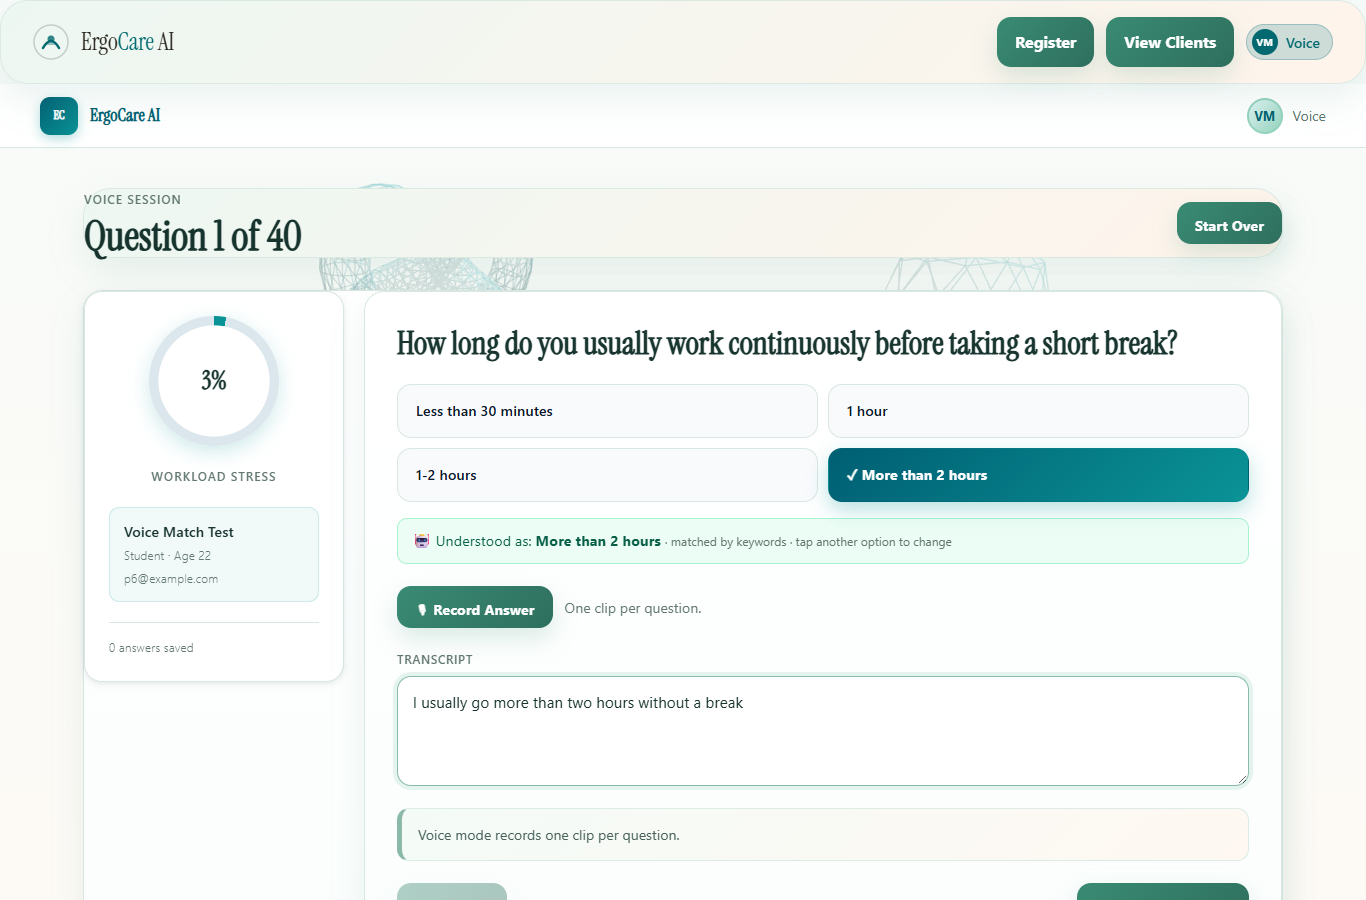
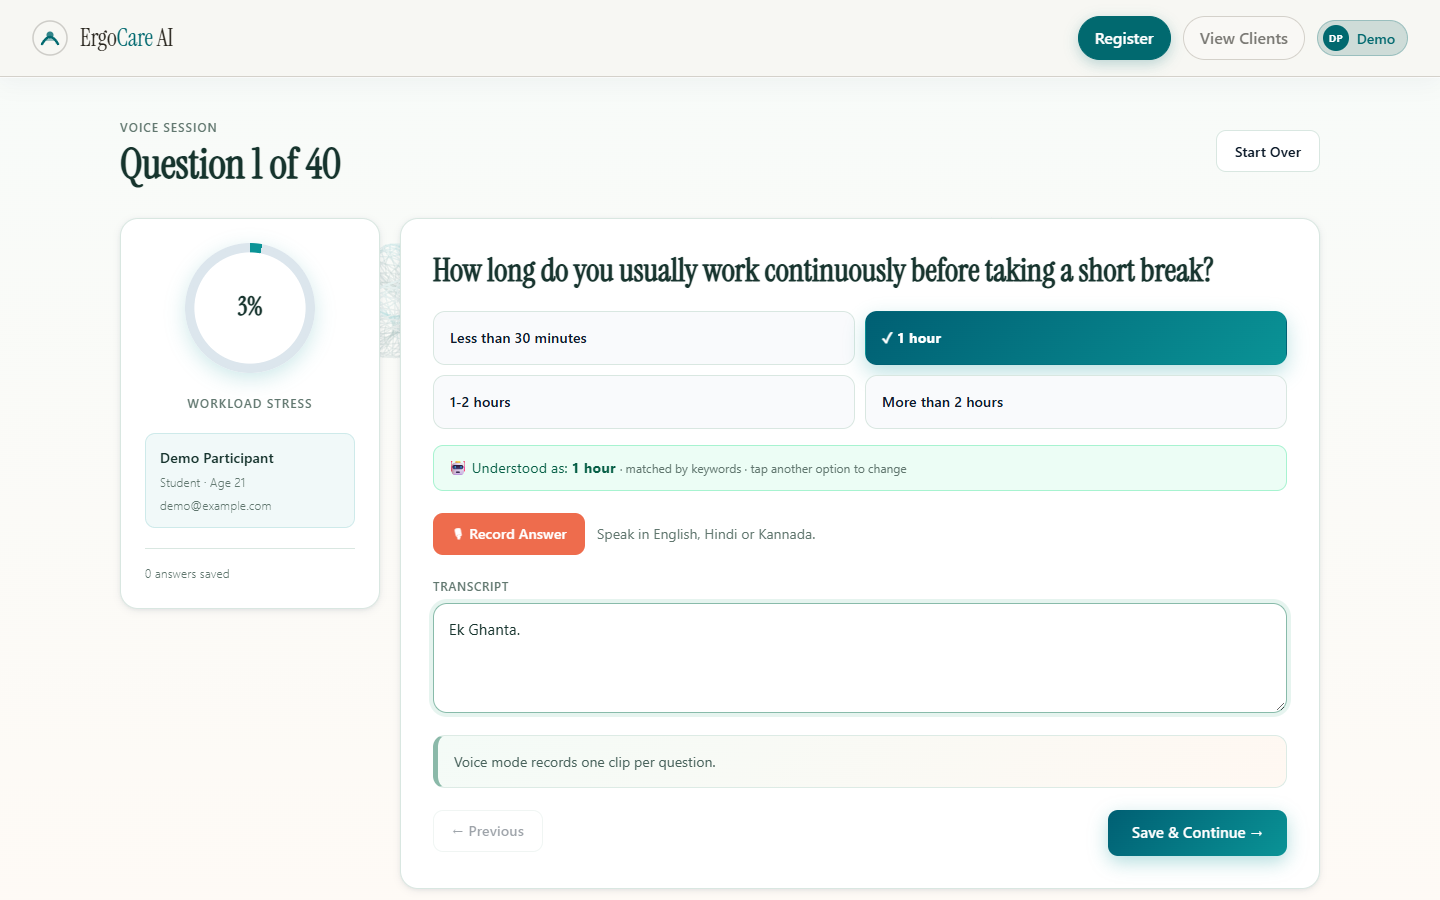
Update README and screenshots; standard MIT license text; fix clone instructions

diff --git a/README.md b/README.md
@@ -2,9 +2,11 @@
 
 **Posture and stress screening that combines what people *say* with what their *body shows*.**
 
-ErgoCare pairs a 40-question ergonomic assessment (typed or spoken, in **English, हिन्दी or ಕನ್ನಡ**) with a low-cost ESP32 wearable that measures **heart rate, skin response (a stress signal) and posture** while the person answers. Both are combined into one report — the **ErgoCare Index** — that also flags where answers and body disagree, e.g. *"You reported low stress, but your body showed stress responses for 48% of the session."*
+ErgoCare pairs a 40-question ergonomic assessment (typed or spoken, in **English, हिन्दी or ಕನ್ನಡ**) with a low-cost ESP32 wearable that measures **heart rate, skin response (a stress signal) and posture** while the person answers. Both are combined into one report — the **ErgoCare Index** — that also flags where answers and body disagree, e.g. *"You reported low stress, but your body showed stress responses for 59% of the session."*
 
 > ErgoCare is a **screening tool, not a medical diagnosis.**
+
+Built for **Hack for Social Cause · VBYLD 2027** — theme *Healthcare, Wellbeing & Service Delivery*.
 
 **Team Upright** — Harshdeep Sharma (Team Lead · Hardware & Firmware) · Alex Jilson (Backend & AI) · Shrayana KS (Frontend, UX & Languages)
 
@@ -13,14 +15,18 @@ ErgoCare pairs a 40-question ergonomic assessment (typed or spoken, in **English
 | [Setup](#setup) · [Environment variables](#environment-variables) | Install and run on a laptop, every setting explained |
 | [Technical Design Document](docs/TECHNICAL_DESIGN.md) | Architecture diagrams, API, data model, scoring rules, AI matcher, security |
 | [Test cases and results](docs/TEST_CASES.md) | 9 automated suites + end-to-end replay, incl. **500-answer** and **500-participant** tests |
-| [Sample data](sample_data/README.md) | Simulated wearable session, answer sets, 100 voice-answer test cases |
+| [Sample data](sample_data/README.md) | Simulated wearable session, answer sets, 100 + 500 voice-answer test cases, 500 simulated participants |
 | [LICENSE](LICENSE) · [Third-party notices](THIRD_PARTY_NOTICES.md) | MIT |
 
-| Connect the wearable | Live posture warning |
+**Tested at a glance** — AI answer matcher: **492 / 500** answers in English, Hindi and Kannada (98.4%; 87.8% on its first, unseen run) · **500 / 500** simulated participants pass every scoring-rule check · 9 automated test suites + an end-to-end replay, all passing ([results](docs/TEST_CASES.md)).
+
+| Connect the wearable | Live posture warning while answering |
 |---|---|
 | ![Connect wearable](docs/screenshots/wearable-connect.png) | ![Posture warning](docs/screenshots/posture-warning.png) |
-| **Report: body signals + ErgoCare Index** | **Questions in Kannada, voice understood** |
+| **Report: ErgoCare Index, "Hidden stress" and "Posture blind spot"** | **Kannada question, spoken answer understood** |
 | ![Body signals report](docs/screenshots/body-signals-report.png) | ![Kannada question](docs/screenshots/kannada-question.png) |
+
+<sub>Screenshots from the current app; the wearable data in them comes from the built-in demo simulator (DEMO-01), not a real person.</sub>
 
 ---
 
@@ -31,7 +37,7 @@ ErgoCare pairs a 40-question ergonomic assessment (typed or spoken, in **English
 | 🧍 | **Live posture tracking** — forward lean measured by an MPU6050 on the collar; on-screen warning after 10 s of slouching |
 | 💧 | **Stress from the body** — skin response (GSR) and heart rate (MAX30102) compared with *your own* 60-second resting baseline |
 | 📝 | **40-question assessment** across workload, eyes, posture, movement, pain and recovery — typed or spoken |
-| 🗣 | **Understands spoken answers** — "my eyes are really tired by evening" → *Very tired*, shown as "Understood as…" for the person to confirm |
+| 🗣 | **Understands spoken answers** — "my eyes are really tired by evening" → *Very tired*; Hindi or Kannada in their own script or in English letters ("Ek Ghanta" → *1 hour*), shown as "Understood as…" for the person to confirm |
 | 🌐 | **English, Hindi, Kannada** — questions, options and voice input |
 | ⭐ | **ErgoCare Index** = 60% questionnaire + 40% body signals, plus **Hidden stress** / **Posture blind spot** insights |
 | 📄 | **Report and PDF** with heart-rate, skin-response and posture graphs |
@@ -53,6 +59,7 @@ flowchart LR
   W[Web app] <-- "answers, live readings, warnings" --> API
   API --> R[Report + PDF]
 ```
+Full architecture, sequence and data-model diagrams: [Technical Design Document](docs/TECHNICAL_DESIGN.md) (PNG copies in [`docs/diagrams/`](docs/diagrams/)).
 
 1. **Connect** — the app finds the wearable and checks finger / electrode / sensor contact.
 2. **60-second baseline** — resting heart rate and skin response are recorded; the current posture becomes "upright".
@@ -92,8 +99,8 @@ The held-out set scored 70%, then 85%, the first times it was run; the general f
 
 **1. Get the code**
 ```bat
-git clone <this-repository-url>
-cd ErgoCare
+git clone https://github.com/Harshxox/VBYLD-2027.git
+cd VBYLD-2027
 ```
 
 **2. Backend (FastAPI)**
@@ -205,7 +212,7 @@ Power the GSR module from **3.3 V** so its output never exceeds the ESP32's 3.3 
 
 ## Testing
 
-Latest results (26 Oct 2026) — details and how to run each one in [docs/TEST_CASES.md](docs/TEST_CASES.md):
+Latest results (26 Oct 2026, re-run on a fresh copy of this repository) — details and how to run each one in [docs/TEST_CASES.md](docs/TEST_CASES.md):
 
 | Suite | Result |
 |---|---|
@@ -244,16 +251,16 @@ ergo_ml_backend/app/
   api/routes/              sessions, answers, reports (PDF), sensors, questions, admin
   domain/                  scoring, wearable scoring, answer matcher, Hindi/Kannada glossary
   models/                  database tables
-ergo_ml_backend/scripts/   test suites (verify_*.py, smoke_wearable.py, eval_matcher.py)
-sample_data/               sample wearable session, answer sets, voice test cases, replay test
-docs/                      TECHNICAL_DESIGN.md, TEST_CASES.md, submission kit, screenshots
+ergo_ml_backend/scripts/   test suites (verify_*.py, smoke_wearable.py, eval_matcher*.py, eval_500_participants.py)
+sample_data/               sample session, answer sets, 100 + 500 voice answers, 500 participants, replay test
+docs/                      TECHNICAL_DESIGN.md, TEST_CASES.md, diagrams/, screenshots/, submission kit
 ```
 
 ## Limitations and next steps
 
 - Low-cost sensors, not medical devices; thresholds are sensible defaults, **not yet validated** against clinical measurements. Next: a pilot comparing ErgoCare with physiotherapist assessments.
 - Scoring rules are hand-set; a trained model needs labelled outcome data from a larger pilot.
-- Hindi/Kannada translations need native-speaker review; results page and PDF are English only.
+- Hindi/Kannada translations and voice matching need native-speaker review (all 500-answer tests are synthetic); the PDF prints Hindi/Kannada answers, but report headings are in English.
 - Voice recognition uses the browser (needs internet); on-device speech recognition is future work.
 
 ## License

diff --git a/THIRD_PARTY_NOTICES.md b/THIRD_PARTY_NOTICES.md
@@ -2,6 +2,8 @@
 
 ErgoCare's own code is MIT-licensed (see [LICENSE](LICENSE)). It uses or bundles the following, each under its own license.
 
+> ErgoCare is a screening tool, not a medical device and not a diagnosis. Its scores have not been clinically validated.
+
 ## Bundled in this repository
 
 | Component | Where | License |
